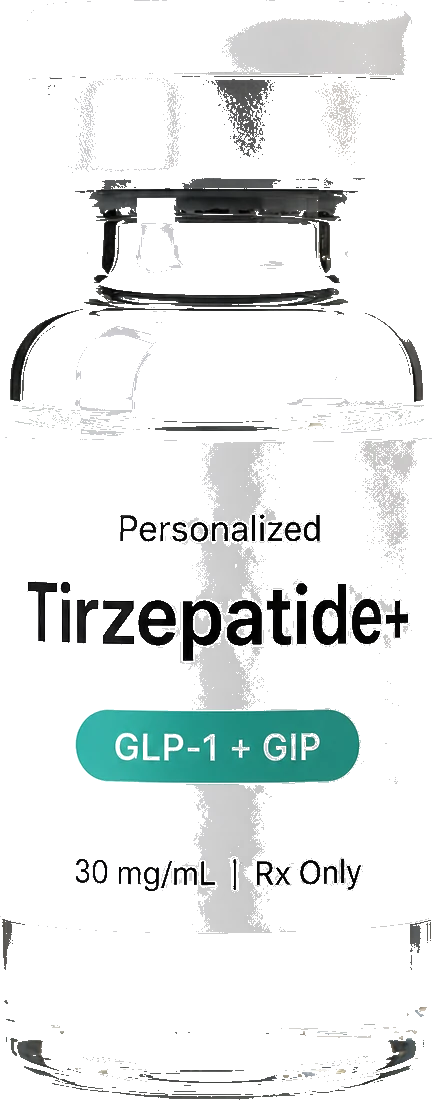
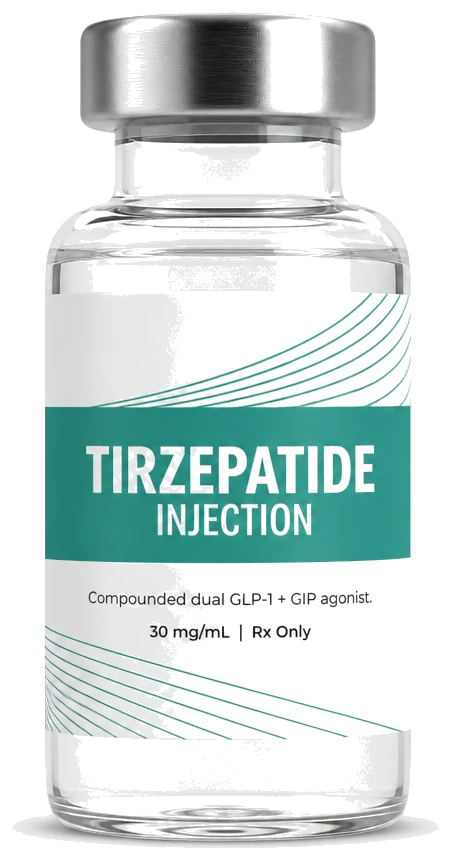
Refresh Semaglutide and Tirzepatide vials to MensRx-style solo product shots.
Replace overlapping pair art with separate logo-free studio vials and show one vial per treatment page.

diff --git a/components/program/ProgramExplorePage.tsx b/components/program/ProgramExplorePage.tsx
@@ -4,7 +4,6 @@ import Link from 'next/link'
 import { useState, type CSSProperties } from 'react'
 import {
   getProgramExploreContent,
-  NEXA_VIAL,
   PROGRAM_INCLUDES,
   PROTOCOL_ICON_LINES,
   PROTOCOL_ICON_PATH,
@@ -91,17 +90,11 @@ function ExploreHero({
             <h2 className="explore-hero-card-title mx-auto m-0 text-center text-[1.75rem] tablet:text-[2.5rem] desktop:text-[2.625rem] leading-[1] tracking-[-0.04em] font-medium max-w-[15ch]">
               {content.cardTitle}
             </h2>
-            <div className="explore-hero-vial-stage" aria-hidden="true">
-              <img
-                src={content.alternateProduct.thumb}
-                alt=""
-                className="explore-hero-card-vial explore-hero-card-vial--back"
-                loading="lazy"
-              />
+            <div className="explore-hero-vial-stage explore-hero-vial-stage--solo" aria-hidden="true">
               <img
                 src={content.vialImage}
                 alt=""
-                className="explore-hero-card-vial explore-hero-card-vial--front"
+                className="explore-hero-card-vial explore-hero-card-vial--solo"
                 loading="lazy"
               />
             </div>
@@ -220,9 +213,8 @@ function ProtocolSection({ content, programSlug }: { content: ProgramExploreCont
             {content.protocol.heading}
           </h2>
           <p className="retro-protocol__sub">{content.protocol.sub}</p>
-          <div className="retro-protocol__vials nexa-protocol-vials" aria-hidden="true">
-            <img className="nexa-protocol-vials__back" src={content.alternateProduct.thumb} alt="" loading="lazy" />
-            <img className="nexa-protocol-vials__front" src={content.vialImage} alt="" loading="lazy" />
+          <div className="retro-protocol__vials nexa-protocol-vials nexa-protocol-vials--solo" aria-hidden="true">
+            <img className="nexa-protocol-vials__solo" src={content.vialImage} alt="" loading="lazy" />
           </div>
         </div>
         <div className="retro-protocol__right">
@@ -250,8 +242,6 @@ function ProtocolSection({ content, programSlug }: { content: ProgramExploreCont
 }
 
 function ClinicalSection({ content }: { content: ProgramExploreContent }) {
-  const featuredIsTirz = content.slug === 'tirzepatide'
-
   return (
     <section className="retro-clinical retro-clinical--weight-loss" aria-labelledby="retro-clinical-heading">
       <div className="retro-clinical__inner">
@@ -270,19 +260,8 @@ function ClinicalSection({ content }: { content: ProgramExploreContent }) {
             ))}
           </div>
         </div>
-        <div className="retro-clinical__visual" aria-hidden="true" data-featured={content.slug}>
-          <img
-            className={`retro-clinical__vial ${featuredIsTirz ? 'retro-clinical__vial--front' : 'retro-clinical__vial--back'}`}
-            src={NEXA_VIAL.tirzepatide}
-            alt=""
-            loading="lazy"
-          />
-          <img
-            className={`retro-clinical__vial ${featuredIsTirz ? 'retro-clinical__vial--back' : 'retro-clinical__vial--front'}`}
-            src={NEXA_VIAL.semaglutide}
-            alt=""
-            loading="lazy"
-          />
+        <div className="retro-clinical__visual retro-clinical__visual--solo" aria-hidden="true" data-featured={content.slug}>
+          <img className="retro-clinical__vial retro-clinical__vial--solo" src={content.clinical.vialImage} alt="" loading="lazy" />
         </div>
       </div>
     </section>

diff --git a/src/program-explore.css b/src/program-explore.css
@@ -211,6 +211,14 @@
   margin: 0.35rem auto 0.15rem;
 }
 
+.program-explore .explore-hero-vial-stage--solo {
+  width: min(58%, 220px);
+  height: clamp(230px, 44vw, 300px);
+  display: flex;
+  align-items: center;
+  justify-content: center;
+}
+
 .program-explore .explore-hero-vial-stage .explore-hero-card-vial {
   position: absolute;
   margin: 0;
@@ -218,6 +226,15 @@
   width: auto;
   max-width: none;
   object-fit: contain;
+}
+
+.program-explore .explore-hero-card-vial--solo {
+  position: static !important;
+  height: 100% !important;
+  width: auto !important;
+  max-height: 100%;
+  margin: 0 auto !important;
+  filter: drop-shadow(0 14px 22px color-mix(in oklch, var(--forest) 18%, transparent));
 }
 
 .program-explore .explore-hero-card-vial--back {
@@ -237,6 +254,24 @@
   z-index: 2;
   transform: rotate(-3deg);
   filter: drop-shadow(0 12px 20px color-mix(in oklch, var(--forest) 20%, transparent));
+}
+
+.program-explore .retro-clinical__visual--solo {
+  width: min(220px, 48vw) !important;
+  height: auto !important;
+  min-height: 280px;
+  display: flex;
+  align-items: center;
+  justify-content: center;
+}
+
+.program-explore .retro-clinical__visual .retro-clinical__vial--solo {
+  position: static !important;
+  width: min(200px, 100%) !important;
+  height: auto !important;
+  left: auto !important;
+  top: auto !important;
+  filter: drop-shadow(0 16px 28px color-mix(in oklch, var(--forest) 16%, transparent));
 }
 
 .program-explore .retro-clinical__visual .retro-clinical__vial--front {
@@ -348,6 +383,14 @@
   margin: 2rem auto 0;
 }
 
+.program-explore .nexa-protocol-vials--solo {
+  width: min(220px, 55%);
+  height: clamp(300px, 38vw, 380px);
+  display: flex;
+  align-items: center;
+  justify-content: center;
+}
+
 .program-explore .nexa-protocol-vials img {
   position: absolute;
   height: 100%;
@@ -355,6 +398,14 @@
   object-fit: contain;
   user-select: none;
   -webkit-user-drag: none;
+}
+
+.program-explore .nexa-protocol-vials__solo {
+  position: static !important;
+  height: 100% !important;
+  width: auto !important;
+  max-width: 100%;
+  filter: drop-shadow(0 16px 28px color-mix(in oklch, var(--forest) 16%, transparent));
 }
 
 .program-explore .nexa-protocol-vials__back {

diff --git a/components/SiteHeader.tsx b/components/SiteHeader.tsx
@@ -40,7 +40,7 @@ const treatmentMenuRows: MenuRow[] = [
     href: '/tirzepatide',
     heading: 'Tirzepatide',
     caption: 'Weight Loss',
-    thumb: '/images/nexa/vial-tirzepatide.webp?v=3',
+    thumb: '/images/nexa/vial-tirzepatide.webp?v=4',
     thumbAlt: 'Personalized Tirzepatide vial',
     vialBg: 'linear-gradient(135deg, #d4e8e4 0%, #b8d9d2 100%)',
   },
@@ -48,7 +48,7 @@ const treatmentMenuRows: MenuRow[] = [
     href: '/semaglutide',
     heading: 'Semaglutide',
     caption: 'Weight Loss',
-    thumb: '/images/nexa/vial-semaglutide.webp?v=3',
+    thumb: '/images/nexa/vial-semaglutide.webp?v=4',
     thumbAlt: 'Personalized Semaglutide vial',
     vialBg: 'linear-gradient(135deg, #e8e4dc 0%, #d4e8e4 100%)',
   },
@@ -57,9 +57,9 @@ const treatmentMenuRows: MenuRow[] = [
     heading: 'All Treatments',
     caption: 'Explore all options',
     allThumbs: [
-      '/images/nexa/vial-semaglutide.webp?v=3',
-      '/images/nexa/vial-tirzepatide.webp?v=3',
-      '/images/nexa/vial-semaglutide.webp?v=3',
+      '/images/nexa/vial-semaglutide.webp?v=4',
+      '/images/nexa/vial-tirzepatide.webp?v=4',
+      '/images/nexa/vial-semaglutide.webp?v=4',
     ],
   },
 ]
@@ -96,7 +96,7 @@ const shopMenuRows: MenuRow[] = [
     href: '/semaglutide',
     heading: 'Semaglutide',
     caption: 'GLP-1 weight management',
-    thumb: '/images/nexa/vial-semaglutide.webp?v=3',
+    thumb: '/images/nexa/vial-semaglutide.webp?v=4',
     thumbAlt: 'Personalized Semaglutide vial',
     vialBg: 'linear-gradient(135deg, #e8e4dc 0%, #d4e8e4 100%)',
   },
@@ -104,7 +104,7 @@ const shopMenuRows: MenuRow[] = [
     href: '/tirzepatide',
     heading: 'Tirzepatide',
     caption: 'GLP-1 / GIP weight management',
-    thumb: '/images/nexa/vial-tirzepatide.webp?v=3',
+    thumb: '/images/nexa/vial-tirzepatide.webp?v=4',
     thumbAlt: 'Personalized Tirzepatide vial',
     vialBg: 'linear-gradient(135deg, #d4e8e4 0%, #b8d9d2 100%)',
   },

diff --git a/lib/home-data.ts b/lib/home-data.ts
@@ -31,7 +31,7 @@ export const HOME_TREATMENTS = [
     price: '$0',
     period: ' to start',
     priceNote: 'Itemized quote before enrollment',
-    vials: ['/images/nexa/vial-semaglutide.webp?v=3'],
+    vials: ['/images/nexa/vial-semaglutide.webp?v=4'],
     cutoutPair: `${YUCCA}/pax-glp1-couple-cutout.avif`,
     learnHref: '/semaglutide',
     program: 'semaglutide',
@@ -51,7 +51,7 @@ export const HOME_TREATMENTS = [
     price: '$0',
     period: ' to start',
     priceNote: 'Itemized quote before enrollment',
-    vials: ['/images/nexa/vial-tirzepatide.webp?v=3'],
+    vials: ['/images/nexa/vial-tirzepatide.webp?v=4'],
     cutoutPair: `${YUCCA}/pax-glp1-couple-cutout-tirz.avif`,
     learnHref: '/tirzepatide',
     program: 'tirzepatide',

diff --git a/lib/program-page-data.ts b/lib/program-page-data.ts
@@ -4,10 +4,12 @@ const PROTOCOL_ICON_WAVE = 'wave'
 const PROTOCOL_ICON_PATH = 'path'
 const PROTOCOL_ICON_LINES = 'lines'
 
-/** Logo-free Nexa product vials (illustrative — not pharmacy packaging) */
+/** Logo-free Nexa product vials — MensRx/MintRx studio style (illustrative) */
 export const NEXA_VIAL = {
-  semaglutide: '/images/nexa/vial-semaglutide.webp?v=3',
-  tirzepatide: '/images/nexa/vial-tirzepatide.webp?v=3',
+  semaglutide: '/images/nexa/vial-semaglutide.webp?v=4',
+  tirzepatide: '/images/nexa/vial-tirzepatide.webp?v=4',
+  semaglutideStudio: '/images/nexa/vial-semaglutide-studio.webp?v=4',
+  tirzepatideStudio: '/images/nexa/vial-tirzepatide-studio.webp?v=4',
   pair: `${YUCCA}/expt-tirz-sema-vials-together.png`,
 } as const
 
